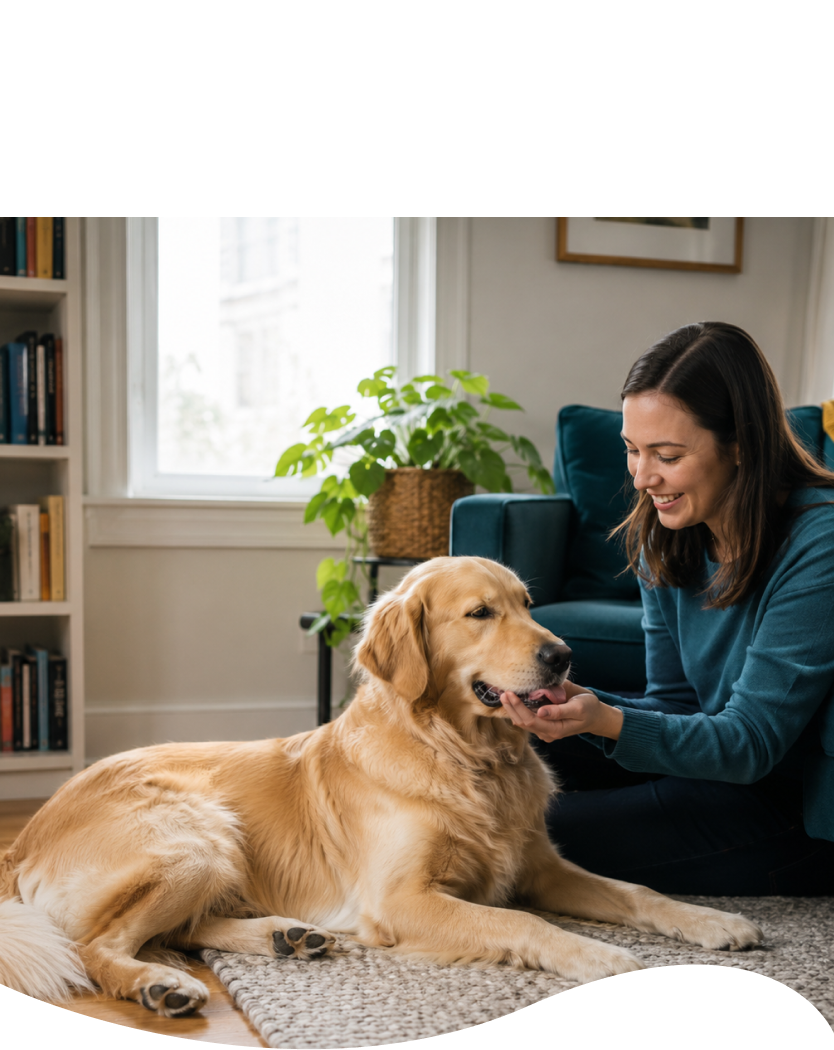
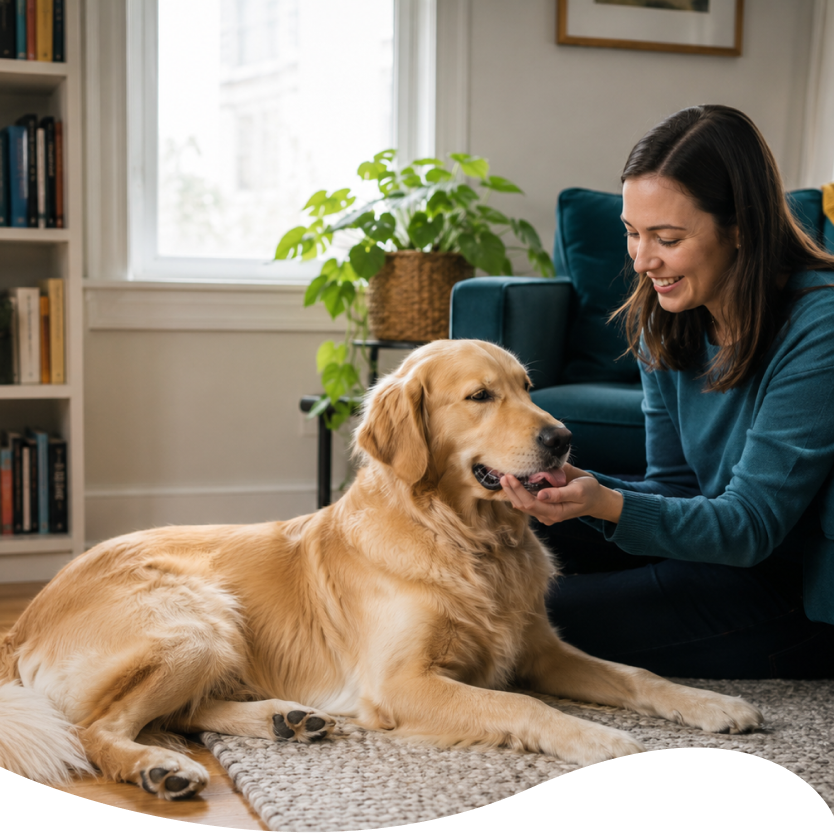
fix(benefits): remove top padding from mobile/tablet images and add heart paw badge to curve dip

diff --git a/components/home/EsaDogBenefitsSection.tsx b/components/home/EsaDogBenefitsSection.tsx
@@ -146,37 +146,59 @@ export function EsaDogBenefitsSection() {
       {/* MOBILE / TABLET (< 1024px)                               */}
       {/* Clean responsive layout matching EmotionalSupportSection */}
       {/* ======================================================== */}
-      {/* Mobile & Tablet Image Container (Rendered FIRST on Mobile/Tablet, Full Width) */}
-      <div className="lg:hidden w-full overflow-hidden">
+      {/* Mobile & Tablet Image Container (Rendered FIRST on Mobile/Tablet, Full Width, Zero Top Gap) */}
+      <div className="lg:hidden relative w-full overflow-visible">
         {/* Mobile Image (< 640px) */}
-        <div className="sm:hidden w-full">
+        <div className="relative sm:hidden w-full">
           <Image
             quality={95}
             src="/home/homepage_benefits_section_mobile.png"
             alt="Benefits Of Having An Emotional Support Dog"
             width={390}
-            height={512}
+            height={363}
             className="w-full h-auto block"
             priority
           />
+          {/* Heart Paw Circle Badge: Centered on bottom curve dip (matching Figma) */}
+          <div className="absolute left-1/2 -translate-x-1/2 bottom-0 translate-y-1/2 w-[44px] h-[44px] z-20 pointer-events-none drop-shadow-[0px_2px_6px_rgba(0,0,0,0.18)]">
+            <Image
+              quality={95}
+              src="/home/doyouneed-emotional-support-icon.svg"
+              alt="ESA Heart Paw Badge"
+              width={44}
+              height={44}
+              className="w-full h-full object-contain rounded-full bg-[#FDFBF7]"
+            />
+          </div>
         </div>
 
         {/* Tablet Image (640px to 1023px) */}
-        <div className="hidden sm:block w-full">
+        <div className="relative hidden sm:block w-full">
           <Image
             quality={95}
             src="/home/homepage_benefits_section_tablet.png"
             alt="Benefits Of Having An Emotional Support Dog"
             width={834}
-            height={1050}
+            height={833}
             className="w-full h-auto block"
             priority
           />
+          {/* Heart Paw Circle Badge: Centered on bottom curve dip (matching Figma) */}
+          <div className="absolute left-1/2 -translate-x-1/2 bottom-0 translate-y-1/2 w-[60px] h-[60px] z-20 pointer-events-none drop-shadow-[0px_2px_6px_rgba(0,0,0,0.18)]">
+            <Image
+              quality={95}
+              src="/home/doyouneed-emotional-support-icon.svg"
+              alt="ESA Heart Paw Badge"
+              width={60}
+              height={60}
+              className="w-full h-full object-contain rounded-full bg-[#FDFBF7]"
+            />
+          </div>
         </div>
       </div>
 
       {/* Mobile & Tablet Content Area (Renders AFTER image on Mobile/Tablet) */}
-      <div className="lg:hidden w-full px-4 sm:px-6 py-6 sm:py-8 space-y-6">
+      <div className="lg:hidden w-full px-4 sm:px-6 pt-8 sm:pt-10 pb-6 sm:pb-8 space-y-6">
         <div className="w-full max-w-[628px] mx-auto space-y-6 sm:space-y-8">
           <div className="space-y-3 sm:space-y-4">
             <h2 className="heading-h2 capitalize">
